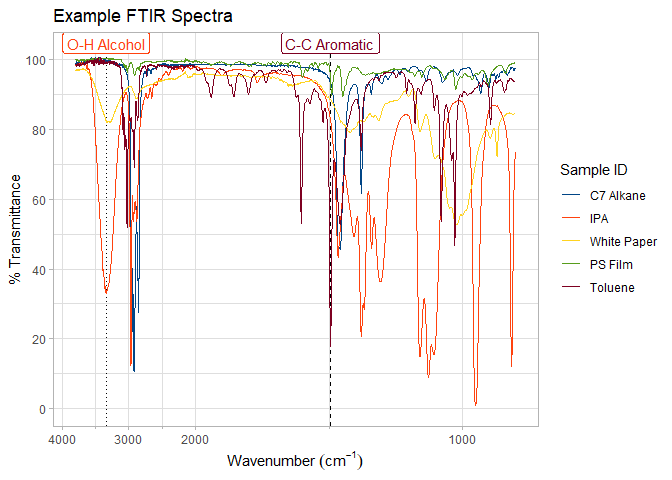
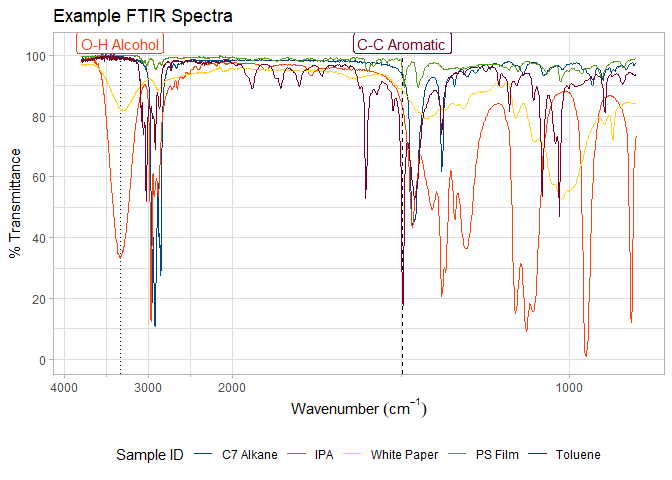
Documented move plot in readme.

diff --git a/README.md b/README.md
@@ -78,8 +78,16 @@ You can also add marker lines (with labels) at specific wavenumbers on
 the plots, controlling their line or text properties as needed.
 
 ``` r
-biodiesel_marked <- add_wavenumber_marker(biodiesel_plot, 1742, "C=O Stretch", label_aesthetics = list("color" = "red"))
-add_wavenumber_marker(biodiesel_marked, 2920, text = "C-H Stretch", line_aesthetics = list("linetype" = "dashed"))
+biodiesel_marked <- add_wavenumber_marker(biodiesel_plot,
+  wavenumber = 1742,
+  text = "C=O Stretch",
+  label_aesthetics = list("color" = "red")
+)
+add_wavenumber_marker(biodiesel_marked,
+  wavenumber = 2920,
+  text = "C-H Stretch",
+  line_aesthetics = list("linetype" = "dashed")
+)
 ```
 
 <img src="man/figures/README-biodiesel_labelled_en-1.png" width="100%" />
@@ -112,6 +120,9 @@ rename_plot_sample_ids(biodiesel_plot, new_names)
 
 A helper function for the renaming is provided (see the documentation
 for `get_plot_sample_ids()`).
+
+Finally, plot legends are customizable (for basic changes) through a
+helper function `move_plot_legend()`.
 
 ## Data Sets
 
@@ -149,11 +160,22 @@ new_ids <- c(
 sample_spectra %>%
   absorbance_to_transmittance() %>%
   plot_ftir(plot_title = "Example FTIR Spectra") %>%
-  zoom_in_on_range(c(3800, 800)) %>%
+  zoom_in_on_range(zoom_range = c(3800, 800)) %>%
   compress_low_energy(compression_ratio = 4) %>%
-  add_wavenumber_marker(1495, text = "C-C Aromatic", line_aesthetics = list("linetype" = "dashed"), label_aesthetics = list("color" = "#7e0021")) %>%
-  add_wavenumber_marker(3340, text = "O-H Alcohol", line_aesthetics = list("linetype" = "dotted"), label_aesthetics = list("color" = "#ff420e")) %>%
-  rename_plot_sample_ids(new_ids)
+  add_wavenumber_marker(
+    wavenumber = 1495,
+    text = "C-C Aromatic",
+    line_aesthetics = list("linetype" = "dashed"),
+    label_aesthetics = list("color" = "#7e0021")
+  ) %>%
+  add_wavenumber_marker(
+    wavenumber = 3340,
+    text = "O-H Alcohol",
+    line_aesthetics = list("linetype" = "dotted"),
+    label_aesthetics = list("color" = "#ff420e")
+  ) %>%
+  rename_plot_sample_ids(sample_ids = new_ids) %>%
+  move_plot_legend(position = "bottom", direction = "horizontal")
 #> Scale for colour is already present.
 #> Adding another scale for colour, which will replace the existing scale.
 ```
@@ -259,8 +281,16 @@ Vous pouvez également ajouter des lignes de marqueur (avec des
 contrôlant leurs propriétés de ligne ou de texte selon vos besoins.
 
 ``` r
-biodiesel_marked <- add_wavenumber_marker(biodiesel_plot, 1742, "C=O Stretch", label_aesthetics = list("color" = "red"))
-add_wavenumber_marker(biodiesel_marked, 2920, text = "C-H Stretch", line_aesthetics = list("linetype" = "dashed"))
+biodiesel_marked <- add_wavenumber_marker(biodiesel_plot,
+  wavenumber = 1742,
+  text = "C=O étirement",
+  label_aesthetics = list("color" = "red")
+)
+add_wavenumber_marker(biodiesel_marked,
+  wavenumber = 2920,
+  text = "C-H étirement",
+  line_aesthetics = list("linetype" = "dashed")
+)
 ```
 
 <img src="man/figures/README-biodiesel_labelled_fr-1.png" width="100%" />
@@ -294,6 +324,15 @@ rename_plot_sample_ids(biodiesel_plot, new_names)
 Une fonction d’assistance pour le changement de nom est fournie (voir la
 documentation pour `get_plot_sample_ids()`).
 
+Enfin, les légendes des tracés sont personnalisables (pour les
+modifications de base) via une fonction d’assistance
+`move_plot_legend()`.
+
+## Production de tracés “tidy”
+
+Notez que, comme la plupart des fonctions renvoient un type de données
+similaire à celui fourni, une “tidy-eval” est possible.
+
 ``` r
 nouveaux_ids <- c(
   "toluene" = "Toluène", "heptanes" = "C7 alcane", "isopropanol" = "alcool isopropylique",
@@ -303,21 +342,27 @@ nouveaux_ids <- c(
 sample_spectra %>%
   absorbance_to_transmittance() %>%
   plot_ftir(plot_title = "Exemple de spectres IRTF") %>%
-  zoom_in_on_range(c(3800, 800)) %>%
+  zoom_in_on_range(zoom_range = c(3800, 800)) %>%
   compress_low_energy(compression_ratio = 4) %>%
-  add_wavenumber_marker(1495, text = "C-C aromatique", line_aesthetics = list("linetype" = "dashed"), label_aesthetics = list("color" = "#7e0021")) %>%
-  add_wavenumber_marker(3340, text = "O-H alcool", line_aesthetics = list("linetype" = "dotted"), label_aesthetics = list("color" = "#ff420e")) %>%
-  rename_plot_sample_ids(nouveaux_ids)
+  add_wavenumber_marker(
+    wavenumber = 1495,
+    text = "C-C aromatique",
+    line_aesthetics = list("linetype" = "dashed"),
+    label_aesthetics = list("color" = "#7e0021")
+  ) %>%
+  add_wavenumber_marker(
+    wavenumber = 3340,
+    text = "O-H alcool",
+    line_aesthetics = list("linetype" = "dotted"),
+    label_aesthetics = list("color" = "#ff420e")
+  ) %>%
+  rename_plot_sample_ids(sample_ids = nouveaux_ids) %>%
+  move_plot_legend(position = "bottom", direction = "horizontal")
 #> Scale for colour is already present.
 #> Adding another scale for colour, which will replace the existing scale.
 ```
 
 <img src="man/figures/README-tidy_fr-1.png" width="100%" />
-
-## Production de tracés “tidy”
-
-Notez que, comme la plupart des fonctions renvoient un type de données
-similaire à celui fourni, une “tidy-eval” est possible.
 
 ## Ensembles des données
 
